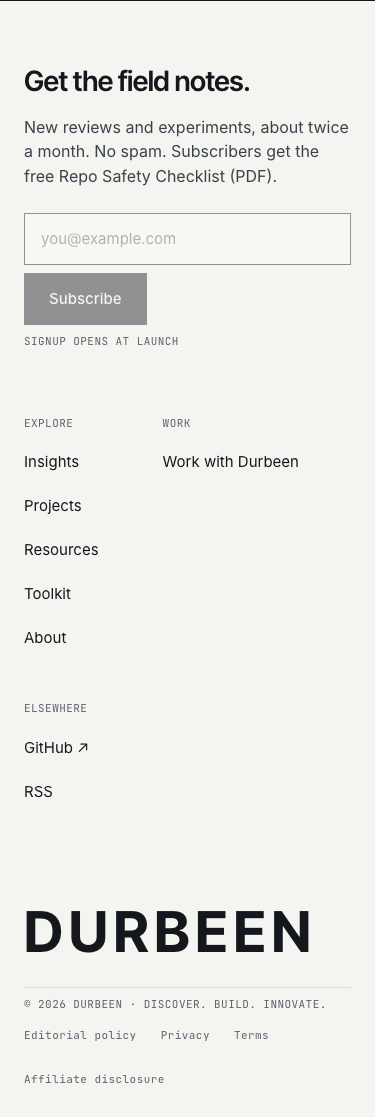
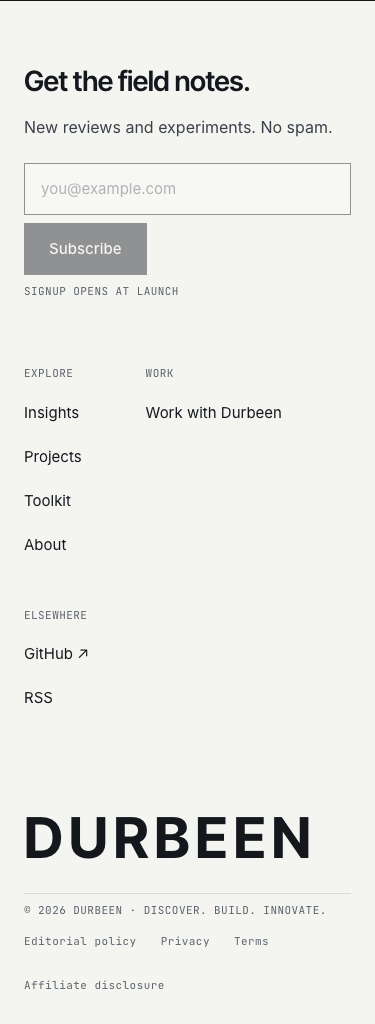
Footer: drop Resources link, simplify signup text (Phase 2, PR 4)

diff --git a/docs/DECISIONS.md b/docs/DECISIONS.md
@@ -99,7 +99,8 @@ Format: date, decision, reason, alternatives rejected. Newest entries go at the 
 | Mobile nav is a MENU button below 860px; without JavaScript the nav stays open (`html.js` class set by `theme-init.js`) | Fits 375px; still usable with scripts off | Wrapping the nav as the mockup does |
 | StatusStrip shows `LOG UPDATED date · N°nnn` only when a page passes the data | Nothing is invented; it comes from the latest article in Phase 3/4 | A hard-coded date |
 | NewsletterForm posts to Kit's hosted form (`action` prop) and is shown disabled until it is set (Phase 5) | Never a form that looks live but goes nowhere; no custom data storage | A form with a placeholder endpoint |
-| Footer follows the brief's link list (Explore, Work with Durbeen, GitHub, RSS, policy links). LinkedIn is left out until the founder gives the URL | The brief is locked; no URL is guessed | Mockup's smaller link set; a guessed LinkedIn link |
+| Footer links: Explore (Insights, Projects, Toolkit, About), Work with Durbeen, GitHub, RSS, policy links. **Resources is left out** of the footer for now (founder's call). LinkedIn is left out until the founder gives the URL | No link to a page that is not planned yet; no URL is guessed | A guessed LinkedIn link |
+| Footer signup text is "New reviews and experiments. No spam.": no frequency, no free-download line. The Repo Safety Checklist line returns once the PDF exists (Phase 5) | Do not promise a send rate or a download that is not there yet | Keeping the checklist line from the mockup/brief now |
 | Footer wordmark uses the brief's 0.1em tracking (mockup shows -0.02em) and `aria-hidden` | Brief rule for the wordmark; the text is decorative repeat | Mockup tracking |
 | Header and Footer are in `BaseLayout`, so every page has them. The component preview page shows extra Header demos with unique landmark names | One place to change; avoids duplicate landmark names | Adding them page by page |
 | PR screenshots are committed to `docs/pr-screenshots/` so PR descriptions can show them | Simple; no external image host | Uploading images to a third party. **Remove the folder before launch** |

diff --git a/docs/CHANGELOG.md b/docs/CHANGELOG.md
@@ -11,7 +11,7 @@ Nothing is live on durbeen.io yet. A placeholder site is deployed to a Cloudflar
 - Newsletter form added. It is shown disabled ("SIGNUP OPENS AT LAUNCH") until Kit is connected in Phase 5.
 - Header, status strip, Button, Tag and SectionLabel components added, with a hidden component preview page at `/design-system/components/`. Phase 2, PRs 2-3.
 - Automatic checks added: every pull request now runs the build and the colour-contrast check, and the contrast check covers the new border colour for inputs and buttons. Phase 2, PR 1.
-- Nav and footer links to Insights, Projects, Resources, Toolkit, About, Work with Durbeen, RSS and the policy pages lead to pages that do not exist yet. They are built in Phases 4-5.
+- Nav and footer links to Insights, Projects, Toolkit, About, Work with Durbeen, RSS and the policy pages lead to pages that do not exist yet. They are built in Phases 4-5.
 
 ### 2026-11-19
 - Colour contrast check added (`npm run check:contrast`): every text and background pair passes WCAG AA in light and dark mode. Phase 1, step 5.
